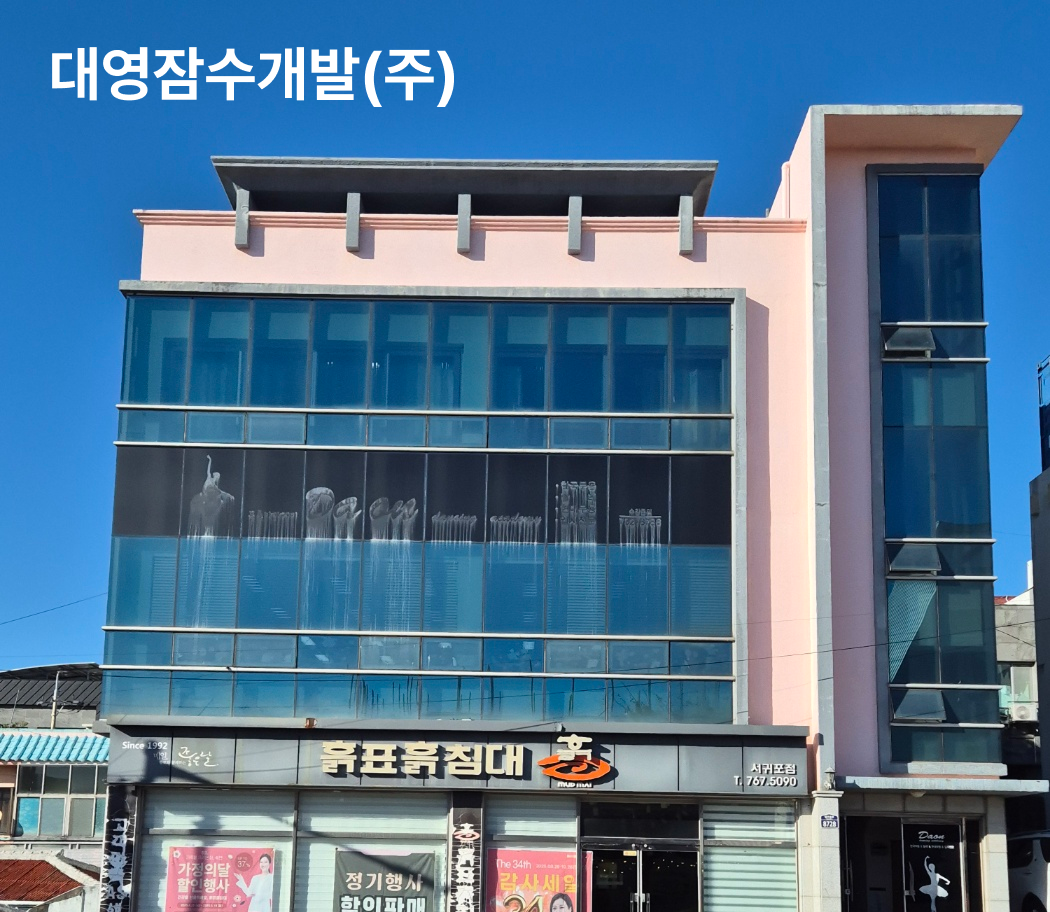
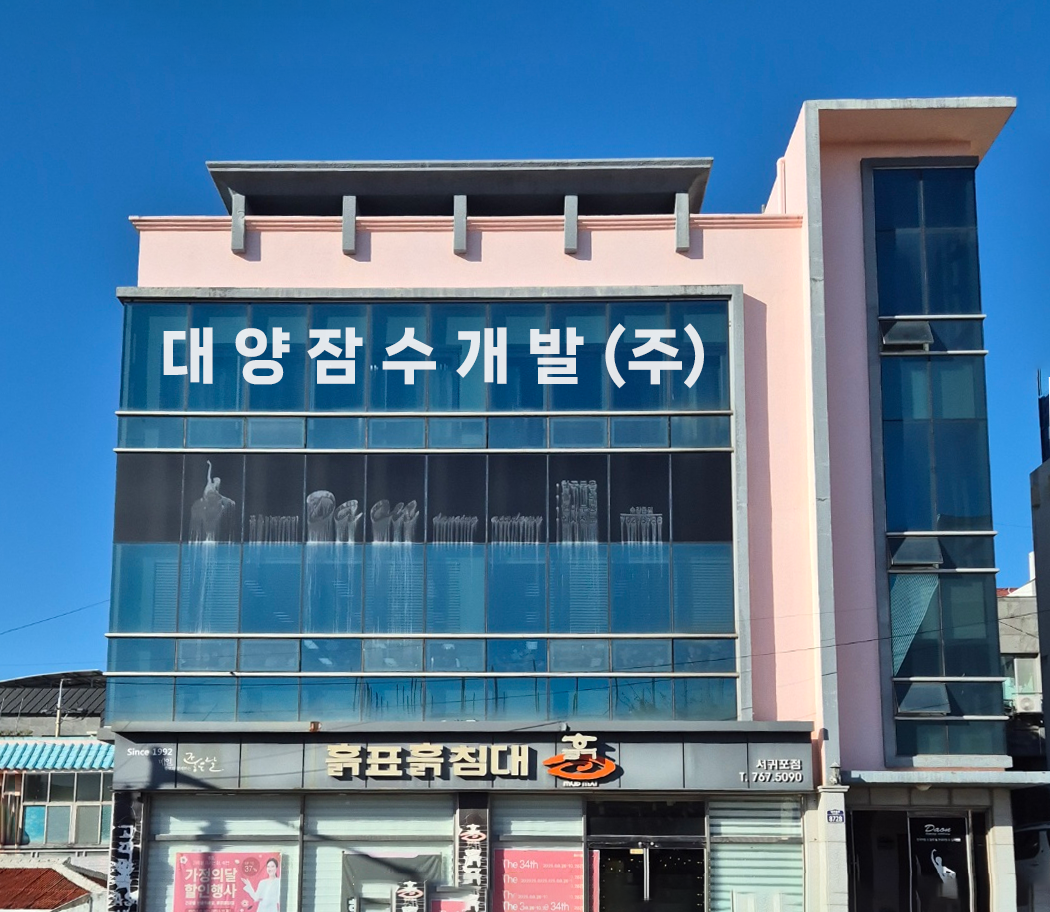
update: feedbacks

Changed region(s): [[0.0, 0.0921, 1.0, 1.0], [0.0305, 0.0307, 0.4571, 0.1228], [0.9752, 0.3991, 1.0, 0.4605]]

diff --git a/app/page.tsx b/app/page.tsx
@@ -28,13 +28,13 @@ export default function HeroVideo() {
 
         {/* 텍스트 오버레이 */}
         <div className="absolute top-1/2 left-1/2 -translate-x-1/2 -translate-y-1/2 w-full text-white text-center px-4">
-          <p className="text-3xl md:text-5xl font-bold drop-shadow-2xl">대영잠수개발</p>
+          <p className="text-3xl md:text-5xl font-bold drop-shadow-2xl">대양잠수개발</p>
 
           <p className="mt-3 drop-shadow-md md:text-xl my-10">경력의 전문 잠수팀이 안전하고 검증된 수중 솔루션을 제공합니다.</p>
 
           {/* 태그 영역 */}
           <div className="mt-5 flex flex-wrap justify-center w-full gap-2 md:gap-4">
-            {["수중공사", "수중촬영", "수중용접", "선박인양", "수중구조물설치"].map((tag) => (
+            {["수중공사", "수중촬영", "수중용접", "선박인양", "수중구조물설치", "선박수중작업", "소나 사운더 수중 복측"].map((tag) => (
               <div key={tag} className="border px-5 py-2 rounded-full text-sm backdrop-blur-sm bg-white/10">
                 #{tag}
               </div>
@@ -67,8 +67,8 @@ export default function HeroVideo() {
       <section className="py-32 w-full  text-start bg-cover bg-bottom text-white mx-auto" style={{ backgroundImage: "url('/image/bg_contact2.jpg')" }}>
         <div className="max-w-[1440px] mx-auto px-6 flex flex-col gap-4">
           <div className="mb-8">
-            <h2 className="text-5xl md:text-6xl font-bold mb-2 tracking-tight">견적문의</h2>
-            <div className="w-24 h-1.5 bg-white"></div>
+            <h2 className="text-3xl md:text-4xl font-bold mb-2 tracking-tight">견적문의</h2>
+            <div className="w-24 h-1 md:h-1.5 bg-white"></div>
           </div>
 
           <p className="max-w-xl text-2xl leading-relaxed mb-8">
@@ -81,11 +81,17 @@ export default function HeroVideo() {
             <div className="flex items-center gap-4">
               <div>
                 <p className="text-sm text-white/80 mb-1">전화 문의</p>
-
-                <a href="tel:010-4117-7991" className="text-3xl font-bold tracking-wider flex gap-4 items-center hover:text-blue-200 transition-colors">
-                  <IoCall color="white" />
-                  010-4117-7991
+                <div></div>
+                <a href="tel:010-4117-7991" className="text-xl md:text-3xl font-bold tracking-wider flex gap-4 items-center hover:text-blue-200 transition-colors">
+                  <IoCall color="white" className="mr-2 md:mr-8 hidden" />
+                  Tel: <br /> 010-4117-7991
+                  <br />
+                  064-763-7992
                 </a>
+                <p className="text-xl md:text-3xl font-bold tracking-wider flex gap-4 items-center hover:text-blue-200 transition-colors mt-8">
+                  FAX:
+                  <br /> 064-763-7993
+                </p>
               </div>
             </div>
           </div>
@@ -108,7 +114,7 @@ export default function HeroVideo() {
         <h2>주요 업무</h2>
         <p>수중 용접 및 절단, 수중 촬영, 구조물 설치, 침몰 선박 인양, 하수처리장 보수·정비 등 전문 수중 공사 서비스를 제공합니다.</p>
 
-        <Link href="/business?tab=underwater-welding" className="card-List grid grid-cols-1 md:grid-cols-3 lg:grid-cols-5 gap-2 max-w-[1440px] py-10 mx-auto px-4">
+        <Link href="/business?tab=underwater-welding" className="card-List grid grid-cols-1 md:grid-cols-3 lg:grid-cols-4 gap-2 max-w-[1440px] py-10 mx-auto px-4">
           <div className="card-item border bg-black/10 rounded-xl overflow-hidden relative h-96 md:h-[440px] group">
             <Image src="/image/수중용접.jpg" alt="수중용접" fill className="object-cover" />
             <div className="absolute bottom-0 left-0 right-0 bg-black/70 p-4 text-center">
@@ -143,6 +149,18 @@ export default function HeroVideo() {
               <h4 className="text-white">하수처리장 보수·정비</h4>
             </div>
           </div>
+          <div className="card-item border bg-black/10 rounded-xl overflow-hidden relative h-96 md:h-[440px] group">
+            <Image src="/image/선박수중작업.png" alt="선박수중작업을 하는 작업자" fill className="object-cover" />
+            <div className="absolute bottom-0 left-0 right-0 bg-black/70 p-4 text-center">
+              <h4 className="text-white">선박 수중 작업</h4>
+            </div>
+          </div>
+          <div className="card-item border bg-black/10 rounded-xl overflow-hidden relative h-96 md:h-[440px] group">
+            <Image src="/image/소나사운드.png" alt="소나 사운드 수중 복측" fill className="object-cover" />
+            <div className="absolute bottom-0 left-0 right-0 bg-black/70 p-4 text-center">
+              <h4 className="text-white">소나 사운드 수중 복측</h4>
+            </div>
+          </div>
         </Link>
       </section>
 
@@ -158,7 +176,7 @@ export default function HeroVideo() {
           <div className="grid grid-cols-1 lg:grid-cols-3 gap-8">
             {/* 지도 */}
             <div className="lg:col-span-2">
-              <div className="relative w-full h-[400px] md:h-[500px] rounded-2xl overflow-hidden shadow-xl">
+              <div className="relative w-full h-[400px] md:h-[550px] rounded-2xl overflow-hidden shadow-xl">
                 <iframe
                   src="https://www.google.com/maps/embed?pb=!1m18!1m12!1m3!1d3262.803595661817!2d129.0453001!3d35.1365745!2m3!1f0!2f0!3f0!3m2!1i1024!2i768!4f13.1!3m3!1m2!1s0x3568ebbeac35f147%3A0x3a14e0b8eab5c66!2z67aA7IKw6rSR7Jet7IucIOuPmeq1rCDsiJjsoJXqs7Xsm5DroZwgMTUxLTI!5e0!3m2!1sko!2skr!4v1763698797817!5m2!1sko!2skr"
                   loading="lazy"
@@ -175,10 +193,22 @@ export default function HeroVideo() {
               <div className="bg-white/20 border border-white/40 rounded-xl p-6 shadow-lg">
                 <h3 className="text-lg font-bold  mb-4 flex items-center gap-2">
                   {/* <span className="text-2xl">📍</span> */}
-                  주소
+                  본사 주소
                 </h3>
                 <p className=" leading-relaxed">
-                  부산광역시 동구 수정공원로 151-2 <br /> 대영 잠수 개발(주)
+                  부산광역시 동구 수정공원로 151-2 <br /> 대양 잠수 개발(주)
+                </p>
+              </div>
+
+              <div className="bg-white/20 border border-white/40 rounded-xl p-6 shadow-lg">
+                <h3 className="text-lg font-bold  mb-4 flex items-center gap-2">
+                  {/* <span className="text-2xl">📍</span> */}
+                  제주도 지점 주소
+                </h3>
+                <p className=" leading-relaxed">
+                  서귀포시 중정로 34,502호
+                  <br />
+                  (서귀동, 천지연리슈빌)
                 </p>
               </div>
 
@@ -190,6 +220,8 @@ export default function HeroVideo() {
                 </h3>
                 <div className="space-y-2 ">
                   <p>전화: 010-4117-7991</p>
+
+                  <p>일반: 064-763-7992</p>
                   <p>팩스: 064-763-7993</p>
                 </div>
               </div>

diff --git a/app/business/page.tsx b/app/business/page.tsx
@@ -26,8 +26,8 @@ const businessList = [
   },
   {
     id: "underwater-welding",
-    label: "수중용접",
-    title: "수중용접",
+    label: "수중용접·절단",
+    title: "수중용접·절단",
     image: "/image/수중용접.jpg",
     alt: "수중용접 이미지",
     description: "전문 잠수사와 특수 장비를 통해 수중에서의 용접 및 절단 작업을 안전하게 수행합니다. 해양 구조물, 선박, 항만 시설 등에 대해 정밀한 용접·절단 및 보수 작업이 가능합니다.",
@@ -47,6 +47,26 @@ const businessList = [
     alt: "선박 인양 이미지",
     description: "침몰된 선박, 장비, 구조물 등을 안전하고 효율적으로 인양하는 전문 작업을 제공합니다. 현장 여건을 상세 분석한 후 최적의 인양 계획을 수립해 안정적인 작업을 진행합니다.",
     works: ["침몰 선박 및 해양 장비 인양", "구조물 및 해저 투하물 회수 작업", "대형 구조물 인양 설계 및 시공", "부선·크레인 등 장비 활용 인양 작업"],
+  },
+  {
+    id: "ship-underwater-work",
+    label: "수중작업",
+    title: "선박 수중작업",
+    image: "/image/선박수중작업.png",
+    alt: "선박 수중작업 이미지",
+    description:
+      "선저·프로펠러·러더 등 선박 주요 부위를 수중에서 직접 점검·보수·복구하는 전문 작업입니다. 선박 운항 중단을 최소화하며, 잠수전문 인력과 장비를 활용해 안전하고 정확하게 작업을 수행합니다.",
+    works: ["선저(바닥) 점검 및 영상 촬영", "프로펠러 손상·이물 제거 작업", "러더(타) 점검 및 보수", "박스쿨러·해수흡입구 청소", "선박 하부 구조물 상태 점검 및 복구", "부착물 제거 및 긴급 수리 작업"],
+  },
+  {
+    id: "sonar-survey",
+    label: "수중측량",
+    title: "소나 사운더 수중 복측",
+    image: "/image/소나사운드.png",
+    alt: "소나 사운더 수중 복측 이미지",
+    description:
+      "소나(Sonar) 사운더 기술을 활용하여 수중 지형, 수심, 장애물 위치 등을 고해상도로 측정하는 전문 복측(腹測) 작업입니다. 해양·항만 공사, 구조물 설치, 준설 작업에 필요한 핵심 데이터를 정확하게 확보합니다.",
+    works: ["소나 사운더 기반 수중 지형 정밀 측량", "수심 변화 및 해저면 형태 분석", "수중 장애물 및 구조물 위치 탐지", "항만·준설·해양 시공 사전 조사", "수중 데이터 기반 시공 계획 수립"],
   },
 ];
 
@@ -95,14 +115,15 @@ function BusinessContent() {
       {/* 2. 아래 스크롤 영역 */}
       <section className="w-full bg-white rounded-t-2xl p-6 md:p-10 shadow-md z-10 flex flex-col items-center -mt-4">
         {/* 사업분야 탭 */}
-        <div className="sticky top-[80px] md:top-[70px] z-20 w-full max-w-[1440px] bg-white/90 backdrop-blur border-b border-gray-100">
+        {/* <div className="sticky top-[80px] md:top-[70px] z-20 w-full max-w-[1440px] bg-white/90 backdrop-blur border-b border-gray-100"> */}
+        <div className=" z-20 w-full max-w-[1440px] bg-white/90 backdrop-blur border-b border-gray-100">
           <ul className="grid grid-cols-2 md:grid-cols-4 gap-2 md:gap-3 w-full py-3 md:py-4">
             {businessList.map((item) => (
               <li key={item.id}>
                 <button
                   type="button"
                   onClick={() => handleTabClick(item.id)}
-                  className={`px-4 py-2.5 md:py-3 text-sm md:text-base rounded-xl w-full transition
+                  className={`px-4 py-2.5 md:py-3 text-base md:text-lg font-semibold rounded-xl w-full transition
                   ${activeId === item.id ? "bg-[#079aca] text-white shadow-md" : "bg-gray-100 text-gray-700 hover:bg-gray-200"}`}
                 >
                   {item.label}

diff --git a/app/company/page.tsx b/app/company/page.tsx
@@ -10,7 +10,7 @@ export default function page() {
           <Image src="/image/company2.jpg" alt="회사소개이미지" fill className="absolute object-cover object-top" />
           <div className="flex flex-col justify-center items-center mt-10 relative">
             <p className="text-3xl md:text-4xl font-bold text-white">회사소개</p>
-            <p className="text-xl md:text-2xl text-white/60 font-thin mt-2">company</p>
+            <p className="text-xl md:text-2xl text-white/70 font-light mt-2 tracking-[0.2em] uppercase">company</p>
           </div>
         </div>
       </div>
@@ -81,7 +81,7 @@ export default function page() {
           <div className="grid grid-cols-1 lg:grid-cols-3 gap-8">
             {/* 지도 */}
             <div className="lg:col-span-2">
-              <div className="relative w-full h-[400px] md:h-[500px] rounded-2xl overflow-hidden shadow-xl">
+              <div className="relative w-full h-[400px] md:h-[550px] rounded-2xl overflow-hidden shadow-xl">
                 <iframe
                   src="https://www.google.com/maps/embed?pb=!1m18!1m12!1m3!1d3262.803595661817!2d129.0453001!3d35.1365745!2m3!1f0!2f0!3f0!3m2!1i1024!2i768!4f13.1!3m3!1m2!1s0x3568ebbeac35f147%3A0x3a14e0b8eab5c66!2z67aA7IKw6rSR7Jet7IucIOuPmeq1rCDsiJjsoJXqs7Xsm5DroZwgMTUxLTI!5e0!3m2!1sko!2skr!4v1763698797817!5m2!1sko!2skr"
                   loading="lazy"
@@ -98,10 +98,21 @@ export default function page() {
               <div className="bg-white/20 border border-white/40 rounded-xl p-6 shadow-lg">
                 <h3 className="text-lg font-bold  mb-4 flex items-center gap-2">
                   {/* <span className="text-2xl">📍</span> */}
-                  주소
+                  본사 주소
                 </h3>
                 <p className=" leading-relaxed">
-                  부산광역시 동구 수정공원로 151-2 <br /> 대영 잠수 개발(주)
+                  부산광역시 동구 수정공원로 151-2 <br /> 대양 잠수 개발(주)
+                </p>
+              </div>
+              <div className="bg-white/20 border border-white/40 rounded-xl p-6 shadow-lg">
+                <h3 className="text-lg font-bold  mb-4 flex items-center gap-2">
+                  {/* <span className="text-2xl">📍</span> */}
+                  제주도 지점 주소
+                </h3>
+                <p className=" leading-relaxed">
+                  서귀포시 중정로 34,502호
+                  <br />
+                  (서귀동, 천지연리슈빌)
                 </p>
               </div>
 
@@ -113,6 +124,8 @@ export default function page() {
                 </h3>
                 <div className="space-y-2 ">
                   <p>전화: 010-4117-7991</p>
+
+                  <p>일반: 064-763-7992</p>
                   <p>팩스: 064-763-7993</p>
                 </div>
               </div>

diff --git a/components/Slider/Slider.tsx b/components/Slider/Slider.tsx
@@ -59,28 +59,34 @@ export default function App() {
         className="mySwiper h-[800px]"
       >
         <SwiperSlide>
-          <Image src="/image/구조물설치.png" alt="구조물설치" fill className="object-cover" />
+          <Image src="/image/구조물설치.png" alt="구조물설치" fill className="object-cover rounded-lg" />
         </SwiperSlide>
         <SwiperSlide>
-          <Image src="/image/work1.jpg" alt="구조물설치" fill className="object-cover" />
+          <Image src="/image/work1.jpg" alt="구조물설치" fill className="object-cover rounded-lg" />
         </SwiperSlide>
         <SwiperSlide>
-          <Image src="/image/work2.jpg" alt="구조물설치" fill className="object-cover" />
+          <Image src="/image/work2.jpg" alt="구조물설치" fill className="object-cover rounded-lg" />
         </SwiperSlide>
         <SwiperSlide>
-          <Image src="/image/work3.jpg" alt="구조물설치" fill className="object-cover" />
+          <Image src="/image/work3.jpg" alt="구조물설치" fill className="object-cover rounded-lg" />
         </SwiperSlide>
         <SwiperSlide>
-          <Image src="/image/work4.jpg" alt="구조물설치" fill className="object-cover" />
+          <Image src="/image/work4.jpg" alt="구조물설치" fill className="object-cover rounded-lg" />
         </SwiperSlide>
         <SwiperSlide>
-          <Image src="/image/work5.jpg" alt="구조물설치" fill className="object-cover" />
+          <Image src="/image/work5.jpg" alt="구조물설치" fill className="object-cover rounded-lg" />
         </SwiperSlide>
         <SwiperSlide>
-          <Image src="/image/work6.jpg" alt="구조물설치" fill className="object-cover" />
+          <Image src="/image/work6.jpg" alt="구조물설치" fill className="object-cover rounded-lg" />
         </SwiperSlide>
         <SwiperSlide>
-          <Image src="/image/수중용접.jpg" alt="수중용접" fill className="object-cover" />
+          <Image src="/image/수중용접.jpg" alt="수중용접" fill className="object-cover rounded-lg" />
+        </SwiperSlide>
+        <SwiperSlide>
+          <Image src="/image/선박수중작업.png" alt="선박수중작업" fill className="object-cover rounded-lg" />
+        </SwiperSlide>
+        <SwiperSlide>
+          <Image src="/image/소나사운드.png" alt="소나사운드" fill className="object-cover rounded-lg" />
         </SwiperSlide>
       </Swiper>
     </>

diff --git a/components/Footer.tsx b/components/Footer.tsx
@@ -7,7 +7,7 @@ export default function Footer() {
         <div className="grid grid-cols-1 md:grid-cols-3 gap-8 text-center md:text-left">
           {/* 회사 정보 */}
           <div>
-            <h3 className="text-xl font-bold mb-4">대영 잠수 개발(주)</h3>
+            <h3 className="text-xl font-bold mb-4">대양 잠수 개발(주)</h3>
             <p className="text-gray-400 text-sm leading-relaxed">전문 잠수 및 수중 작업 전문 기업</p>
           </div>
 
@@ -16,10 +16,16 @@ export default function Footer() {
             <h4 className="text-lg font-semibold mb-4">연락처</h4>
             <ul className="space-y-2 text-gray-400 text-sm">
               <li>전화: 010-4117-7991</li>
+              <li>일반: 064-763-7992</li>
               <li>팩스: 064-763-7993</li>
               <li>이메일: info@daeyoungdive.com</li>
               <li>
-                주소: 서귀포시 중정로 34,502호
+                본사 주소: 부산광역시 동구 수정공원로 151-2
+                <br />
+                대양 잠수 개발(주)
+              </li>
+              <li>
+                제주도 지점: 서귀포시 중정로 34,502호
                 <br /> (서귀동, 천지연리슈빌)
               </li>
             </ul>
@@ -34,13 +40,15 @@ export default function Footer() {
               <li>구조물 설치</li>
               <li>침몰 선박 인양</li>
               <li>하수처리장 보수·정비</li>
+              <li>추가1</li>
+              <li>추가2</li>
             </ul>
           </div>
         </div>
 
         {/* 하단 카피라이트 */}
         <div className="border-t border-gray-800 mt-8 pt-8 text-center text-gray-500 text-sm">
-          <p>&copy; 2025 대영 잠수 개발(주). All rights reserved.</p>
+          <p>&copy; 2025 대양 잠수 개발(주). All rights reserved.</p>
         </div>
       </div>
     </footer>

diff --git a/components/Hero/Hero.tsx b/components/Hero/Hero.tsx
@@ -70,6 +70,28 @@ export default function Hero() {
             <p className="text-base sm:text-lg md:text-4xl mt-1 opacity-90 text-shadow">하수처리 시설의 안정적 운영을 위한 전문 보수·정비 서비스</p>
           </div>
         </SwiperSlide>
+        <SwiperSlide>
+          <Image src="/image/선박수중작업.png" alt="선박 수중작업" fill className="object-cover" />
+          {/* 오버레이 텍스트 영역 */}
+          <div className="absolute bottom-10  left-6  md:left-20 text-white text-left border-l-4 pl-4 md:pl-10">
+            {/* 제목 */}
+            <h2 className="text-2xl sm:text-3xl md:text-5xl font-semibold drop-shadow-lg text-shadow">선박 수중작업</h2>
+
+            {/* 설명 */}
+            <p className="text-base sm:text-lg md:text-4xl mt-1 opacity-90 text-shadow">선박 하부 점검·보수·절단·인양 등 모든 수중 작업</p>
+          </div>
+        </SwiperSlide>
+        <SwiperSlide>
+          <Image src="/image/소나사운드.png" alt="소나사운더수중복측" fill className="object-cover" />
+          {/* 오버레이 텍스트 영역 */}
+          <div className="absolute bottom-10  left-6  md:left-20 text-white text-left border-l-4 pl-4 md:pl-10">
+            {/* 제목 */}
+            <h2 className="text-2xl sm:text-3xl md:text-5xl font-semibold drop-shadow-lg text-shadow">소나 사운더 수중 복측</h2>
+
+            {/* 설명 */}
+            <p className="text-base sm:text-lg md:text-4xl mt-1 opacity-90 text-shadow">소나 사운더를 활용해 수중 지형·수심·장애물을 정밀하게 복측(측량)</p>
+          </div>
+        </SwiperSlide>
       </Swiper>
     </>
   );

diff --git a/app/gallery/page.tsx b/app/gallery/page.tsx
@@ -23,7 +23,7 @@ export default function page() {
           <Image src="/image/hero_gallery.jpg" alt="회사 소개 이미지" fill className="absolute object-cover object-top" />
           <div className="flex flex-col justify-center items-center mt-10 relative">
             <p className="text-3xl md:text-4xl font-bold text-white">사업실적</p>
-            <p className="text-xl md:text-2xl text-white/60 font-thin mt-2">gallery</p>
+            <p className="text-xl md:text-2xl text-white/70 font-light mt-2 tracking-[0.2em] uppercase">gallery</p>
           </div>
         </div>
       </div>

diff --git a/components/Header.tsx b/components/Header.tsx
@@ -39,7 +39,7 @@ export default function Header() {
       <header className="z-50 w-full fixed top-0 py-5 px-4 bg-black/30 backdrop-blur-sm">
         <div className="flex justify-between items-center max-w-[1440px] w-full mx-auto">
           <Link href={"/"}>
-            <h1 className="m-0 text-white text-xl md:text-2xl font-bold cursor-pointer">대영잠수개발</h1>
+            <h1 className="m-0 text-white text-xl md:text-2xl font-bold cursor-pointer">대양잠수개발</h1>
           </Link>
 
           {/* 데스크톱 메뉴 */}

diff --git a/app/layout.tsx b/app/layout.tsx
@@ -17,7 +17,7 @@ const geistMono = localFont({
 });
 
 export const metadata: Metadata = {
-  title: "대영잠수개발",
+  title: "대양잠수개발",
   description: "Generated by create next app",
 };
 
